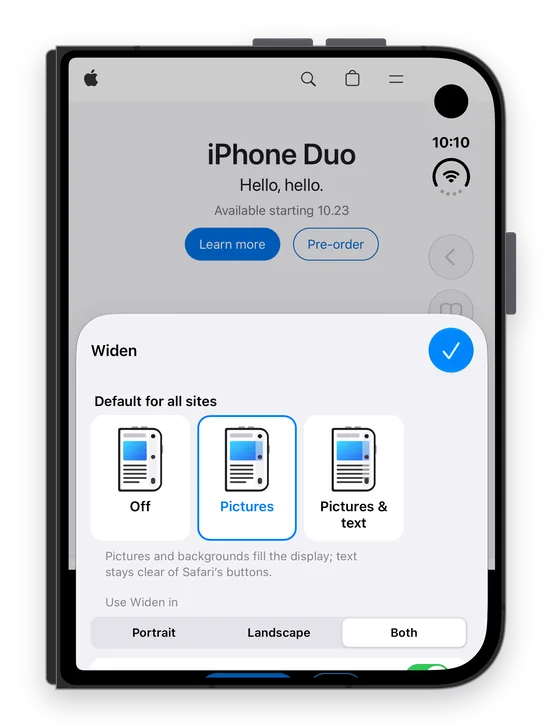
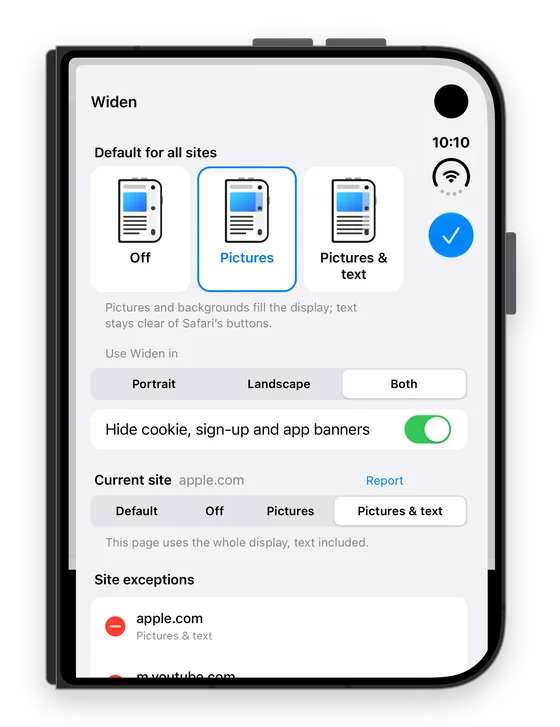
Settings screenshot: full-height panel

diff --git a/index.html b/index.html
@@ -133,7 +133,7 @@
     <span class="kicker">The settings</span>
     <h2>Everything in one panel, right in Safari</h2>
     <p class="intro">Choose <strong>Widen</strong> from Safari&rsquo;s page menu and every option is there, on the page you&rsquo;re looking at. No digging through the Settings app.</p>
-    <figure class="panel-one"><img src="img/panel.webp?v=6" width="560" height="727" loading="lazy" alt="Widen's panel in Safari: Default for all sites, with Off, Pictures and Pictures &amp; text, and Portrait, Landscape or Both"><figcaption>Pick Off, Pictures or Pictures &amp; text for every site, and when <em>Widen</em> works: portrait, landscape or both. Further down: banner hiding, a setting for the site you&rsquo;re on, and your list of exceptions.</figcaption></figure>
+    <figure class="panel-one"><img src="img/panel.webp?v=7" width="560" height="727" loading="lazy" alt="Widen's panel in Safari, full screen: Default for all sites with Off, Pictures and Pictures &amp; text; Portrait, Landscape or Both; banner hiding on; the current site, apple.com, set to Pictures &amp; text; and site exceptions"><figcaption>The default for every site, when <em>Widen</em> works, banner hiding, the site you&rsquo;re on, and your exceptions: one screen.</figcaption></figure>
   </div>
 </section>
 
